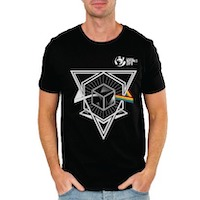
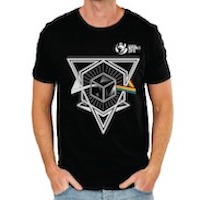
tshirt merch pic transparent

Changed region(s): [[0.15, 0.0, 0.87, 1.0]]

diff --git a/register/registrationActual.php b/register/registrationActual.php
@@ -527,7 +527,7 @@ echo '</ul>';
 				<div class="uldiv">
 					<ul>
 						<li>
-							<img src="../img/merchandise/tshirt.jpg" alt="shirt image">
+							<img src="../img/merchandise/tshirt.png" alt="shirt image">
 							<h3>T-shirt</h3>
 							<p> ₹499</p>
 						<select id="cbcb27">
